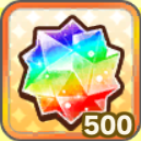
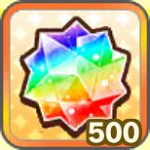
change images
アイコン素材を更新
サイズを調整。ファイル名を正式名に変更

diff --git a/index.html b/index.html
@@ -98,42 +98,42 @@
     <div id="images">
       <img src="./meta/ラッキーメダル5.png" alt="ラッキーメダル5" class="standard first_little">
       <img src="./meta/ラッキーメダル250.png" alt="ラッキーメダル250" class="gorgeous">
-      <img src="./meta/オシャレメダル.png" alt="オシャレメダル" class="gorgeous">
-      <img src="./meta/輝きのかけら5.png" alt="輝きのかけら5" class="first_little">
-      <img src="./meta/輝きのかけら10.png" alt="輝きのかけら10" class="standard">
-      <img src="./meta/輝きのかけら30.png" alt="輝きのかけら30" class="gorgeous">
-      <img src="./meta/思い出の石SR.png" alt="思い出の石SR" class="all">
-      <img src="./meta/思い出の石SSR.PNG" alt="思い出の石SSR" class="gorgeous standard">
+      <img src="./meta/おしゃれメダル.png" alt="オシャレメダル" class="gorgeous">
+      <img src="./meta/輝きの欠片5.png" alt="輝きの欠片5" class="first_little">
+      <img src="./meta/輝きの欠片10.png" alt="輝きの欠片10" class="standard">
+      <img src="./meta/輝きの欠片30.png" alt="輝きのかけら30" class="gorgeous">
+      <img src="./meta/おもいでの石SR.png" alt="おもいでの石SR" class="all">
+      <img src="./meta/おもいでの石SSR.png" alt="おもいでの石SSR" class="gorgeous standard">
       <img src="./meta/ゴールド1000.png" alt="ゴールド1000" class="first_little">
       <img src="./meta/ゴールド5000.png" alt="ゴールド5000" class="standard">
       <img src="./meta/スタミナ20回復ドリンク.png" alt="スタミナ20回復ドリンク" class="first_little">
       <img src="./meta/スタミナ50回復ドリンク.png" alt="スタミナ50回復ドリンク" class="standard first_little">
-      <img src="./meta/ジャパリまんオール中10.png" alt="ジャパリまんオール中10" class="first_little">
-      <img src="./meta/ジャパリまんオール大10.png" alt="ジャパリまんオール大10" class="first_little">
-      <img src="./meta/ジャパリまんオール大30.png" alt="ジャパリまんオール大30" class="standard">
-      <img src="./meta/ジャパリまんオール大120.png" alt="ジャパリまんオール大120" class="gorgeous">
+      <img src="./meta/ジャパまん（オール）中10.png" alt="ジャパまん（オール）中10" class="first_little">
+      <img src="./meta/ジャパまん（オール）大10.png" alt="ジャパまん（オール）大10" class="first_little">
+      <img src="./meta/ジャパまん（オール）大30.png" alt="ジャパまん（オール）大30" class="standard">
+      <img src="./meta/ジャパまん（オール）大120.png" alt="ジャパまん（オール）大120" class="gorgeous">
       <img src="./meta/ジャパリパン.png" alt="ジャパリパン" class="first_little">
-      <img src="./meta/虹ラムネSR.png" alt="虹ラムネSR" class="all">
-      <img src="./meta/虹ラムネSSR.png" alt="虹ラムネSSR" class="standard gorgeous">
+      <img src="./meta/虹色のアニマルラムネSR.png" alt="虹色のアニマルラムネSR" class="all">
+      <img src="./meta/虹色のアニマルラムネSSR.png" alt="虹色のアニマルラムネSSR" class="standard gorgeous">
       <img src="./meta/キラキラ4.png" alt="キラキラ4" class="standard first_little">
       <img src="./meta/キラキラ12.png" alt="キラキラ12" class="gorgeous">
       <img src="./meta/キラキラ25.png" alt="キラキラ25" class="first_little">
-      <img src="./meta/キラキラ50.JPG" alt="キラキラ50" class="gorgeous">
+      <img src="./meta/キラキラ50.png" alt="キラキラ50" class="gorgeous">
       <img src="./meta/キラキラ75.png" alt="キラキラ75" class="first_little standard">
-      <img src="./meta/キラキラ100.JPG" alt="キラキラ100" class="gorgeous">
+      <img src="./meta/キラキラ100.png" alt="キラキラ100" class="gorgeous">
       <img src="./meta/キラキラ150.png" alt="キラキラ150" class="standard">
       <img src="./meta/キラキラ250.png" alt="キラキラ250" class="gorgeous">
       <img src="./meta/キラキラ300.png" alt="キラキラ300" class="standard">
       <img src="./meta/キラキラ500.png" alt="キラキラ500" class="gorgeous">
-      <img src="./meta/キラキラ1000.JPG" alt="キラキラ1000" class="gorgeous">
-      <img src="./meta/招待券.png" alt="招待券" class="all">
-      <img src="./meta/招待券10.png" alt="招待券10" class="gorgeous">
-      <img src="./meta/星2以上招待券.JPG" alt="星2以上招待券" class="all">
-      <img src="./meta/星3以上招待券.png" alt="星3以上招待券" class="all">
-      <img src="./meta/星3以上フレンズ招待券.png" alt="星3以上フレンズ招待券" class="all">
-      <img src="./meta/星4招待券.png" alt="星4招待券" class="gorgeous standard">
-      <img src="./meta/星4フレンズ招待チケット.png" alt="星4フレンズ招待チケット" class="gorgeous">
-      <img src="./meta/星4フレンズ招待券.png" alt="星4フレンズ招待券" class="gorgeous">
+      <img src="./meta/キラキラ1000.png" alt="キラキラ1000" class="gorgeous">
+      <img src="./meta/しょうたい券1.png" alt="しょうたい券1" class="all">
+      <img src="./meta/しょうたい券10.png" alt="しょうたい券10" class="gorgeous">
+      <img src="./meta/☆2以上フレンズしょうたい券.png" alt="☆2以上フレンズしょうたい券" class="all">
+      <img src="./meta/☆3以上しょうたい券.png" alt="☆3以上しょうたい券" class="all">
+      <img src="./meta/☆3以上フレンズしょうたい券.png" alt="☆3以上フレンズしょうたい券" class="all">
+      <img src="./meta/☆4しょうたい券.png" alt="☆4しょうたい券" class="gorgeous standard">
+      <img src="./meta/☆4フレンズしょうたいチケット.png" alt="☆4フレンズしょうたいチケット" class="gorgeous">
+      <img src="./meta/☆4フレンズしょうたい券.png" alt="☆4フレンズしょうたい券" class="gorgeous">
       <img src="./meta/白.png" alt="空白" class="all">
     </div>
     <div id="item_selecting" hidden>
